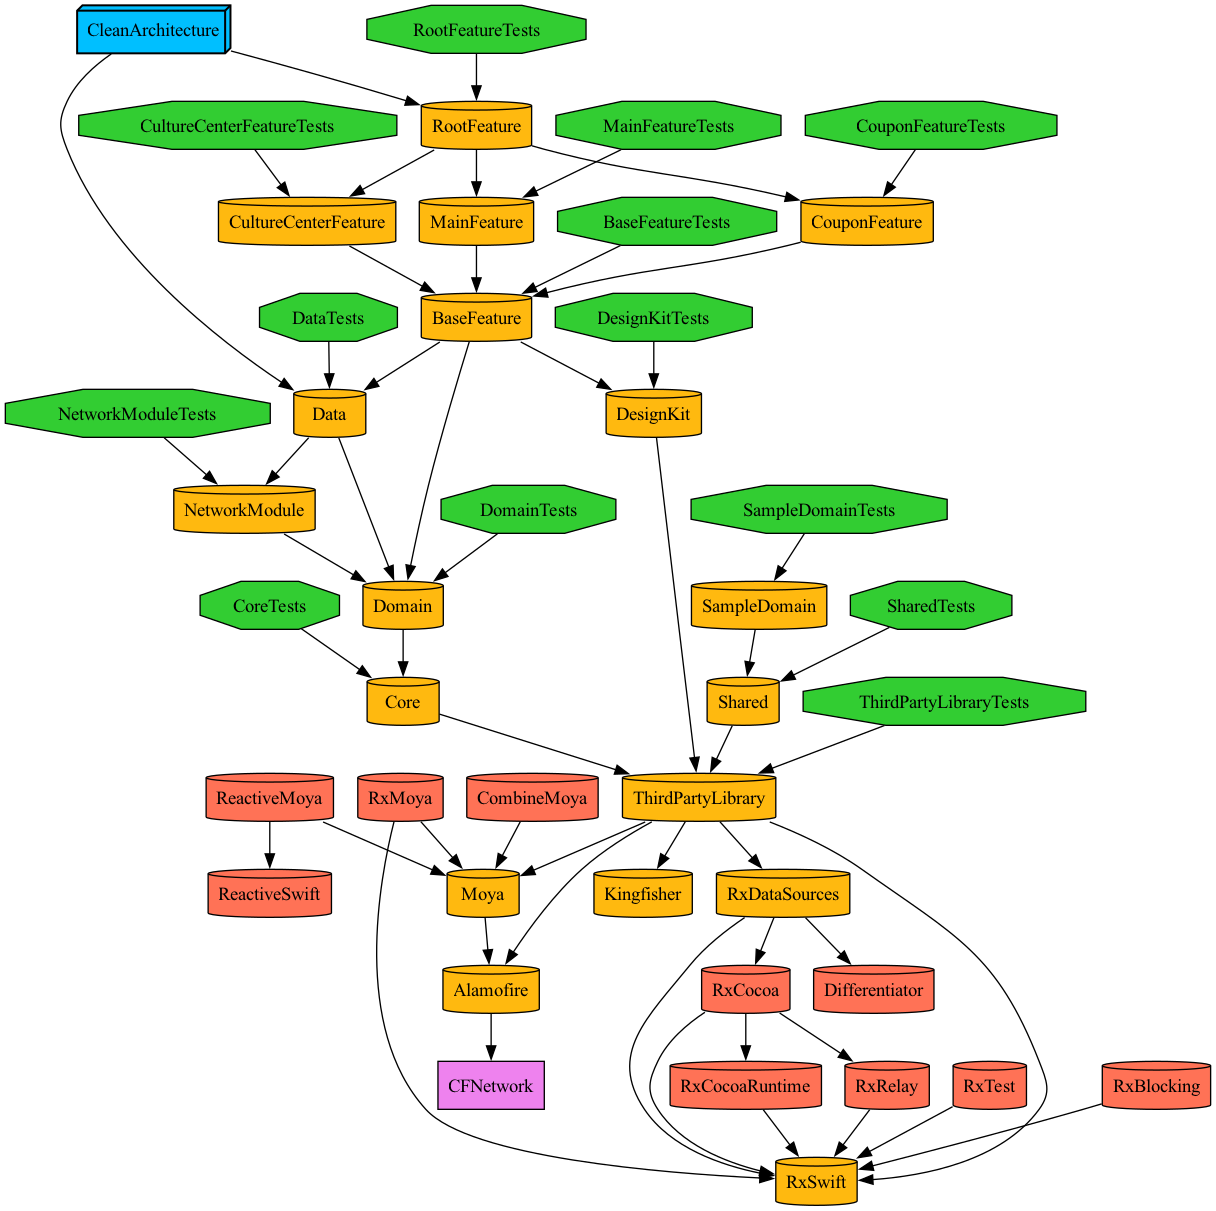
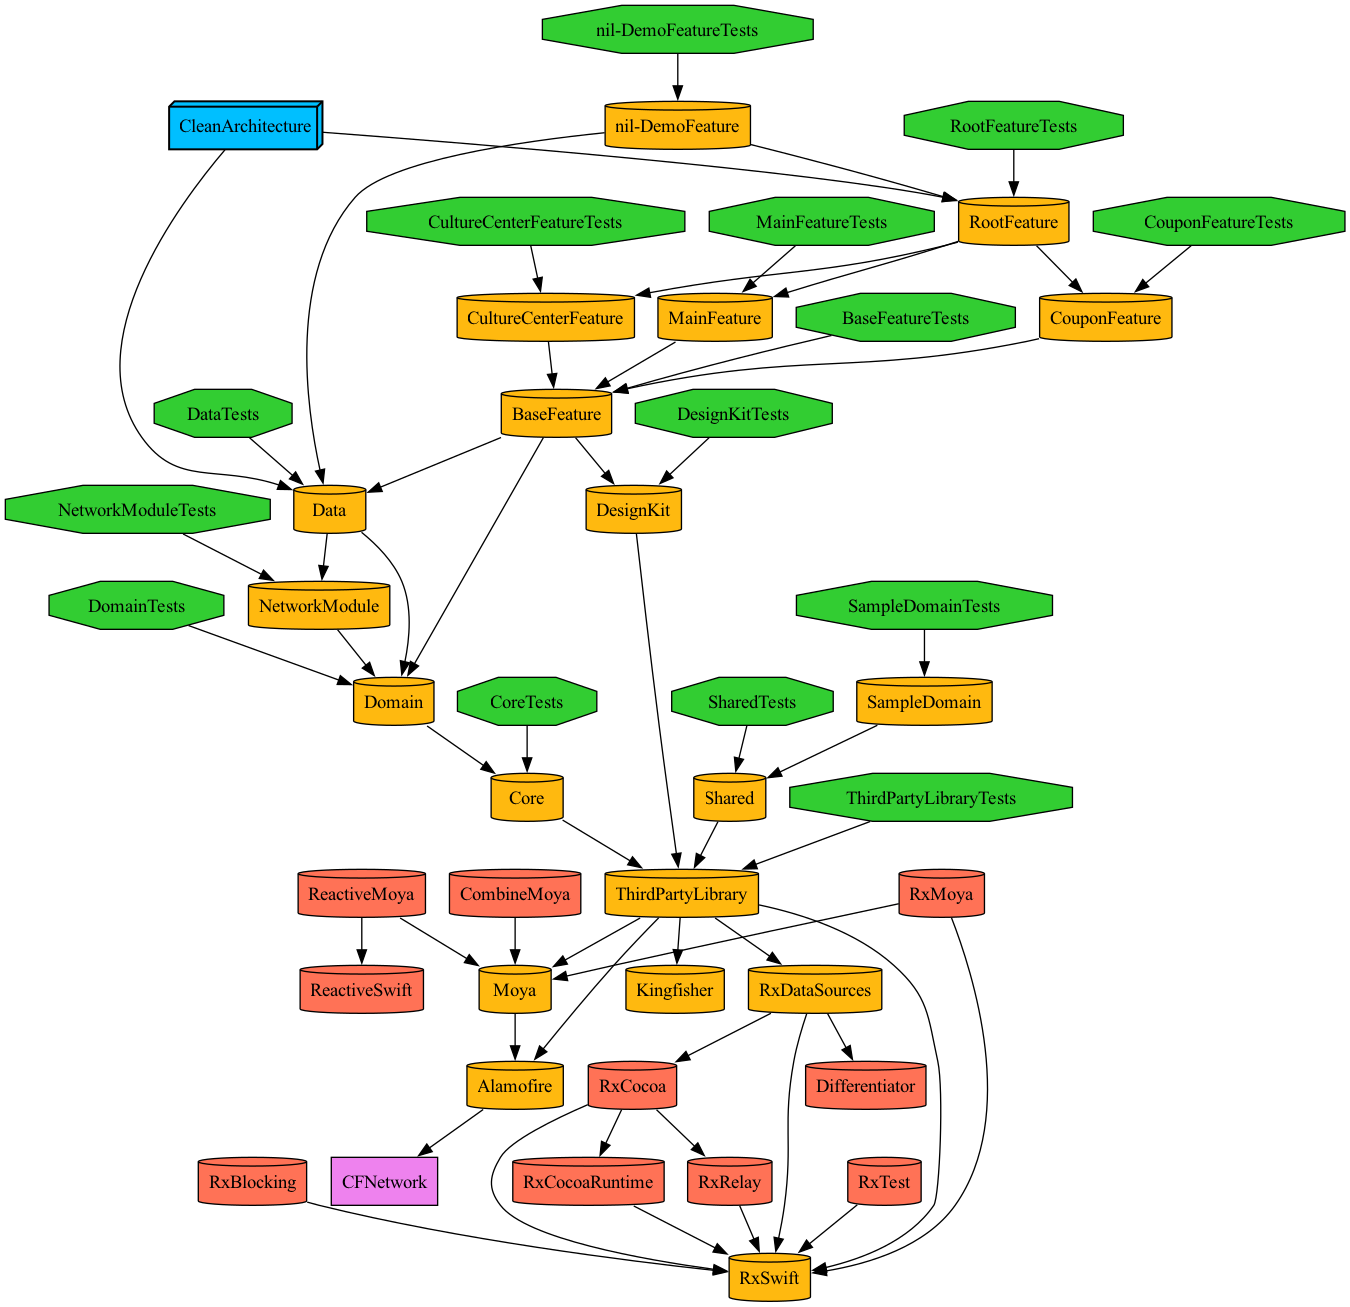
tuist generate modular architecture

diff --git a/Projects/Features/RootFeature/Sources/ViewControllerFactory.swift b/Projects/Features/RootFeature/Sources/ViewControllerFactory.swift
@@ -9,18 +9,20 @@ import UIKit
 import Core
 import Domain
 import Data
+import CultureCenterFeature
+import CouponFeature
 
 protocol ViewControllerFactoryProtocol {
     func makeLectureSearchListVC() -> LectureResultViewController
     func makeMainTabVC() -> MainTabViewController
 }
 
-final class ViewControllerFactory: ViewControllerFactoryProtocol {
+public final class ViewControllerFactory: ViewControllerFactoryProtocol {
     
-    static let shared = ViewControllerFactory()
+    public static let shared = ViewControllerFactory()
     private init() { }
     
-    func makeLectureSearchListVC() -> LectureResultViewController {
+    public func makeLectureSearchListVC() -> LectureResultViewController {
         let repository = DefaultCultureSearchResultRepository(cultureSearchService: CultureSearchService.shared)
         let usecase = DefaultCultureSearchListUseCase(repository: repository)
         let viewModel = DefaultLectureSearchResultViewModel(fetchCultureSearchUsecase: usecase)
@@ -29,7 +31,7 @@ final class ViewControllerFactory: ViewControllerFactoryProtocol {
     }
     
     // root VC 를 TabViewController 로 설정한다.
-    func makeMainTabVC() -> MainTabViewController {
+    public func makeMainTabVC() -> MainTabViewController {
         let couponRepository = CouponRepository(networkManager: .shared)
         let couponService = CouponService(repository: couponRepository)
         let couponViewModel = CouponViewModel(couponService: couponService)

diff --git a/Projects/AppModule/Sources/SceneDelegate.swift b/Projects/AppModule/Sources/SceneDelegate.swift
@@ -9,7 +9,7 @@ import UIKit
 import SwiftUI
 import Domain
 import Data
-import CultureCenterFeature
+import RootFeature
 
 class SceneDelegate: UIResponder, UIWindowSceneDelegate {
 
@@ -22,19 +22,11 @@ class SceneDelegate: UIResponder, UIWindowSceneDelegate {
     func scene(_ scene: UIScene, willConnectTo session: UISceneSession, options connectionOptions: UIScene.ConnectionOptions) {
 
         guard let scene = (scene as? UIWindowScene) else { return }
-
         self.window = UIWindow(windowScene: scene)
         
-        let repository = DefaultCultureSearchResultRepository(cultureSearchService: CultureSearchService.shared)
-        let usecase = DefaultCultureSearchListUseCase(repository: repository)
-        let viewModel = DefaultLectureSearchResultViewModel(fetchCultureSearchUsecase: usecase)
-        let rootViewController = LectureResultViewController(viewModel: viewModel)
-        
-        let navigationController = UINavigationController(rootViewController: rootViewController)
-        
-        self.window?.rootViewController = navigationController
+        let rootViewController = ViewControllerFactory.shared.makeMainTabVC()
+        self.window?.rootViewController = UIHostingController(rootView: rootViewController)
         self.window?.makeKeyAndVisible()
-        
     }
 
     func sceneDidDisconnect(_ scene: UIScene) {

diff --git a/Tuist/ProjectDescriptionHelpers/Extension/Dependency+Feature.swift b/Tuist/ProjectDescriptionHelpers/Extension/Dependency+Feature.swift
@@ -25,14 +25,7 @@ public extension TargetDependency.Features {
     
     static let BaseFeatureDependency = TargetDependency.project(target: "BaseFeature", path: .relativeToFeature("BaseFeature"))
     
-//    static let RootFeature = TargetDependency.project(target: "RootFeature", path: .relativeToFeature("RootFeature"))
-}
-
-public extension TargetDependency.Features.Root {
-    static let name = "Root"
-    
-    static let Feature = TargetDependency.Features.project(name: "\(name)Feature")
-    static let Interface = TargetDependency.project(target: "\(name)FeatureInterface", path: .relativeToFeature("\(name)Feature"))
+    static let RootFeature = TargetDependency.project(target: "RootFeature", path: .relativeToFeature("RootFeature"))
 }
 
 public extension TargetDependency.Features.Main {

diff --git a/Projects/Features/RootFeature/Sources/MainTab/MainTabViewController.swift b/Projects/Features/RootFeature/Sources/MainTab/MainTabViewController.swift
@@ -7,12 +7,17 @@
 
 import SwiftUI
 import Data
+import CultureCenterFeature
+import CouponFeature
 
-struct MainTabViewController: View {
+public struct MainTabViewController: View {
     @State var selectedTab: MainTabType = .cultureCenter
-    @StateObject var couponViewModel: CouponViewModel
+    @ObservedObject var couponViewModel: CouponViewModel
     
-    var body: some View {
+    public init(couponViewModel: CouponViewModel) {
+        self.couponViewModel = couponViewModel
+    }
+    public var body: some View {
         
         TabView(selection: $selectedTab) {
             

diff --git a/Projects/Features/CultureCenterFeature/Sources/CultureLectureScene/View/LectureSearchCell.swift b/Projects/Features/CultureCenterFeature/Sources/CultureLectureScene/View/LectureSearchCell.swift
@@ -12,8 +12,7 @@ class LectureSearchCell: UITableViewCell {
     @IBOutlet weak var lectureTitleLabel: UILabel!
     @IBOutlet weak var lectureSubTitleLabel: UILabel!
     @IBOutlet weak var lecturePriceLabel: UILabel!
-    
-    
+
     override func awakeFromNib() {
         super.awakeFromNib()
         // Initialization code
@@ -21,8 +20,6 @@ class LectureSearchCell: UITableViewCell {
 
     override func setSelected(_ selected: Bool, animated: Bool) {
         super.setSelected(selected, animated: animated)
-
-        // Configure the view for the selected state
     }
     
 }

diff --git a/Projects/Features/CouponFeature/Sources/CouponView.swift b/Projects/Features/CouponFeature/Sources/CouponView.swift
@@ -9,10 +9,14 @@ import SwiftUI
 import Kingfisher
 import Data
 
-struct CouponView: View {
-    @StateObject var viewModel: CouponViewModel
+public struct CouponView: View {
+    @ObservedObject var viewModel: CouponViewModel
     
-    var body: some View {
+    public init(viewModel: CouponViewModel) {
+        self.viewModel = viewModel
+    }
+    
+    public var body: some View {
         
         List {
             ForEach(viewModel.couponList?.coupons ?? [], id: \.name) { coupon in

diff --git a/Projects/Features/CouponFeature/Sources/CouponViewModel.swift b/Projects/Features/CouponFeature/Sources/CouponViewModel.swift
@@ -15,14 +15,14 @@ import Data
  
  
  */
-class CouponViewModel: ObservableObject {
+public class CouponViewModel: ObservableObject {
     @Published var couponList: CouponList?
     @Published var errorMessage: String?
     
     private let couponService: CouponServiceType
     private var cancellables = Set<AnyCancellable>()
     
-    init(couponService: CouponServiceType) {
+    public init(couponService: CouponServiceType) {
         self.couponService = couponService
     }
     

diff --git a/Projects/Features/CultureCenterFeature/Sources/CultureLectureScene/ViewController/LectureResultViewController.swift b/Projects/Features/CultureCenterFeature/Sources/CultureLectureScene/ViewController/LectureResultViewController.swift
@@ -40,7 +40,7 @@ private extension LectureResultViewController {
     func setupDelegate() {
         lectureListTableView.delegate = self
         lectureListTableView.dataSource = self
-        
+
         let nib = UINib(nibName: "LectureSearchCell", bundle: nil)
         lectureListTableView.register(nib, forCellReuseIdentifier: "LectureSearchCell")
         

diff --git a/Projects/AppModule/Project.swift b/Projects/AppModule/Project.swift
@@ -12,7 +12,7 @@ let project = Project.configure(
     moduleType: .app,
     product: .app,
     interfaceDependencies: [
-        .Features.Root.Feature,
+        .Features.RootFeature,
         .data
     ]
 )

diff --git a/Projects/Demo/Project.swift b/Projects/Demo/Project.swift
@@ -13,6 +13,6 @@ let project = Project.configure(
     product: .framework,
     interfaceDependencies: [
         .data,
-        .Features.Root.Feature
+        .Features.RootFeature,
     ]
 )

diff --git a/Projects/Features/RootFeature/Sources/CultureCenterWrapper.swift b/Projects/Features/RootFeature/Sources/CultureCenterWrapper.swift
@@ -7,6 +7,7 @@
 
 import SwiftUI
 import UIKit
+import CultureCenterFeature
 
 struct LectureResultViewWrapper: UIViewControllerRepresentable {
 
